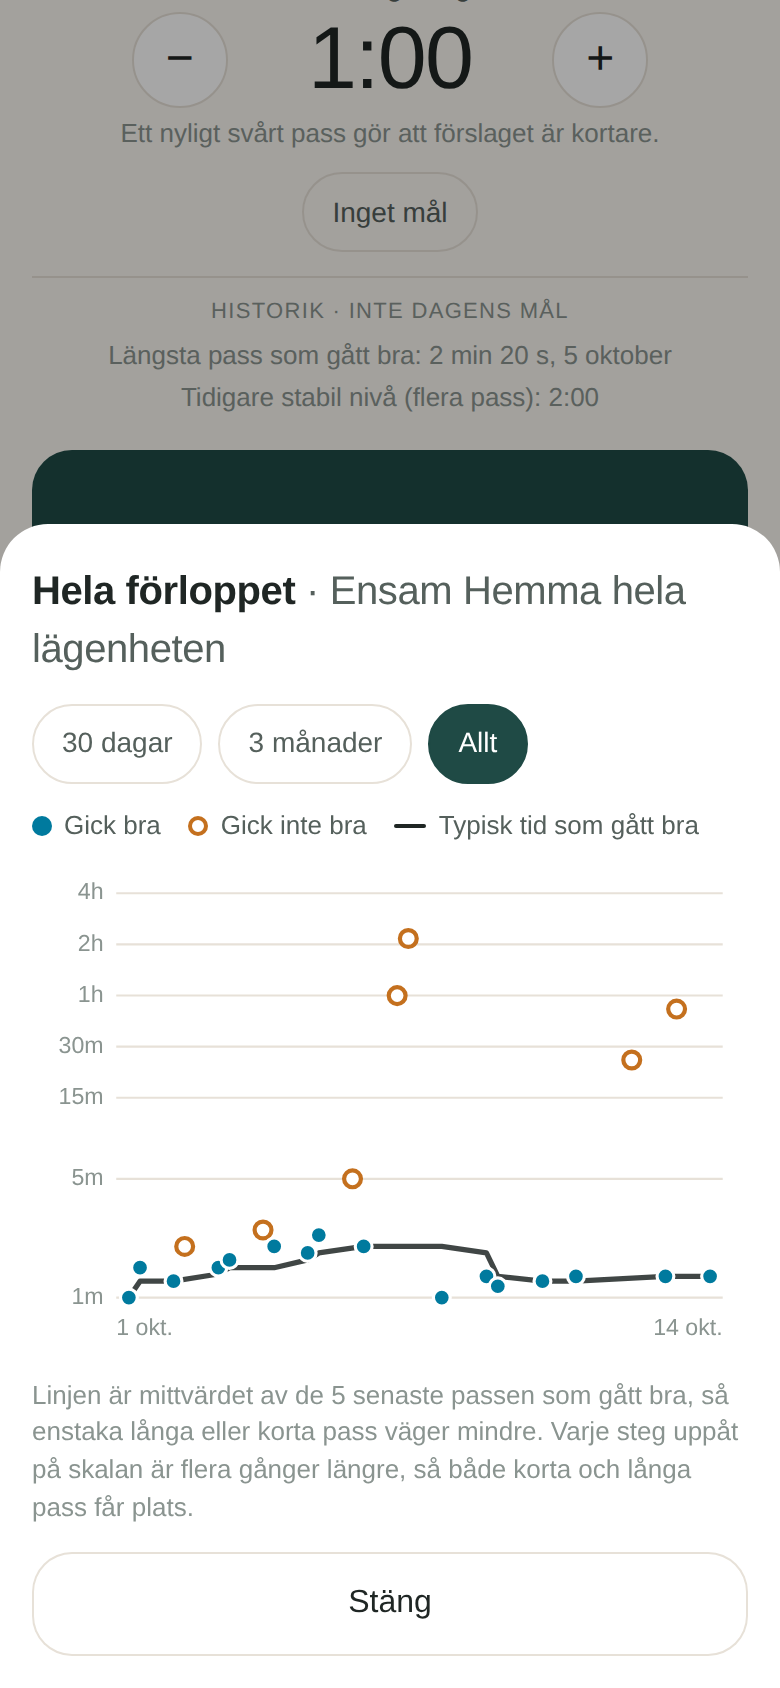
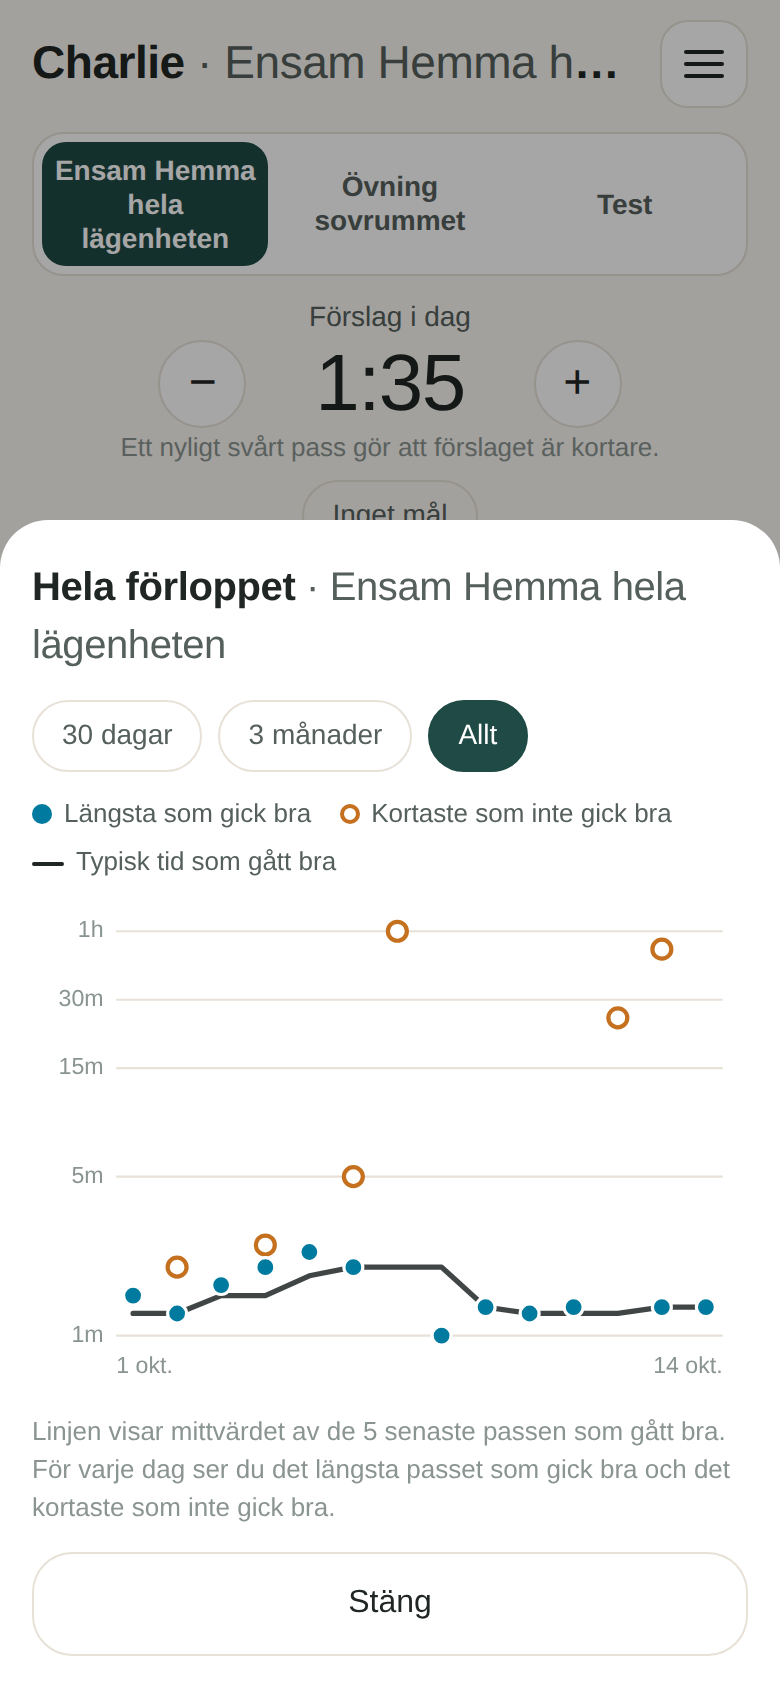
v0.13: calmer whole-course chart (per day), start over (delete all data), simpler chart text
- The whole course: per day only the longest session that went well and the shortest that
  didn't, plus the typical-time line (now one point per day). Legend and note reworded.
- Your data → Start over: delete all data after ticking a confirmation (backup button in the
  same sheet). Clears every app key in localStorage and overwrites the iOS app's storage; a
  running session and its Live Activity end; the app opens on the welcome screen.
- Tests: daily summary, reset flow incl. native storage and Live Activity; every e2e page now
  waits for the app to start (fixes a timing-dependent restore check).

Claude-Session: https://claude.ai/code/session_01EhbfXoTqhXYCiKr5w2cXG6

diff --git a/src/chart.js b/src/chart.js
@@ -161,8 +161,29 @@ export function smoothedGood(sessions, n = SMOOTH_SESSIONS) {
   return goods.map((s, i) => ({ at: s.startedAt, sec: median(goods.slice(Math.max(0, i - n + 1), i + 1).map((g) => g.durationSec)) }));
 }
 
+// One entry per calendar day: the longest session that went well and the shortest one that
+// didn't – the two that say most about the day. ("Don't count" sessions are left out.) Pure.
+export function dailySummary(sessions) {
+  const days = new Map();
+  for (const s of sessions) {
+    if (!Number.isFinite(s.startedAt) || !Number.isFinite(s.durationSec)) continue;
+    const d = new Date(s.startedAt);
+    const key = `${d.getFullYear()}-${d.getMonth()}-${d.getDate()}`;
+    const day = days.get(key) ?? { at: new Date(d.getFullYear(), d.getMonth(), d.getDate(), 12).getTime(), good: null, bad: null };
+    if (s.result === RESULTS.GOOD && !s.uncertain) {
+      if (!day.good || s.durationSec > day.good.durationSec) day.good = s;
+    } else if (s.result === RESULTS.BAD) {
+      if (!day.bad || s.durationSec < day.bad.durationSec) day.bad = s;
+    }
+    days.set(key, day);
+  }
+  return [...days.values()].filter((d) => d.good || d.bad).sort((a, b) => a.at - b.at);
+}
+
 /**
  * Overview of the course in one place. Log scale, so 10 s and 2 h are both readable.
+ * Per day: the longest session that went well (dot) and the shortest that didn't (ring),
+ * and a line for the typical time that went well (median of the latest 5, at the end of each day).
  * @param sessions sessions of one dog in one place
  * @param opts.from  only sessions from this time (ms); null = from the start
  * @returns {string} SVG ('' if none)
@@ -171,18 +192,30 @@ export function renderOverview(allSessions, { from = null } = {}) {
   const sessions = allSessions
     .filter((s) => Number.isFinite(s.startedAt) && (from == null || s.startedAt >= from))
     .sort((a, b) => a.startedAt - b.startedAt);
-  if (!sessions.length) return '';
+  const days = dailySummary(sessions);
+  if (!days.length) return '';
+
+  // The line: the typical good time as it stood at the end of each day.
+  const smooth = smoothedGood(sessions);
+  const line = days
+    .map((d) => {
+      const end = d.at + 12 * 3600 * 1000;
+      const last = smooth.filter((p) => p.at < end).pop();
+      return last ? { at: d.at, sec: last.sec } : null;
+    })
+    .filter(Boolean);
 
   const plotW = OW - OPAD.left - OPAD.right;
   const plotH = OH - OPAD.top - OPAD.bottom;
-  const secs = sessions.map((s) => Math.max(1, s.durationSec));
-  const lo = [...LOG_TICKS].reverse().find((v) => v <= Math.min(...secs)) ?? 1;
-  const hi = LOG_TICKS.find((v) => v >= Math.max(...secs)) ?? LOG_TICKS[LOG_TICKS.length - 1];
+  const shown = [...days.flatMap((d) => [d.good, d.bad].filter(Boolean).map((s) => s.durationSec)), ...line.map((p) => p.sec)]
+    .map((v) => Math.max(1, v));
+  const lo = [...LOG_TICKS].reverse().find((v) => v <= Math.min(...shown)) ?? 1;
+  const hi = LOG_TICKS.find((v) => v >= Math.max(...shown)) ?? LOG_TICKS[LOG_TICKS.length - 1];
   const top = hi > lo ? hi : lo * 10;
   const ly = (v) => OPAD.top + plotH - ((Math.log(Math.max(1, v)) - Math.log(lo)) / (Math.log(top) - Math.log(lo))) * plotH;
-  const t0 = from ?? sessions[0].startedAt;
-  const t1 = Math.max(sessions[sessions.length - 1].startedAt, t0 + 1);
-  const x = (ms) => OPAD.left + 6 + ((ms - t0) / (t1 - t0)) * (plotW - 12);
+  const t0 = days[0].at;
+  const t1 = Math.max(days[days.length - 1].at, t0 + 1);
+  const x = (ms) => OPAD.left + 8 + ((ms - t0) / (t1 - t0)) * (plotW - 16);
 
   const ticks = LOG_TICKS.filter((v) => v >= lo && v <= top);
   const grid = ticks
@@ -191,17 +224,15 @@ export function renderOverview(allSessions, { from = null } = {}) {
     <text class="axis" x="${OPAD.left - 6}" y="${ly(v)}" text-anchor="end" dominant-baseline="middle">${tickLabel(v)}</text>`)
     .join('');
 
-  const line = smoothedGood(sessions);
   const path = line.length > 1
     ? `<path class="trend" d="${line.map((p, i) => `${i ? 'L' : 'M'}${x(p.at).toFixed(1)},${ly(p.sec).toFixed(1)}`).join(' ')}"/>`
     : '';
 
-  const dots = sessions
-    .map((s) => {
-      const label = `${dateFmt(s.startedAt)} · ${formatDuration(s.durationSec)} · ${resultText(s)}`;
-      return `<circle class="dot ${s.result}" cx="${x(s.startedAt).toFixed(1)}" cy="${ly(s.durationSec).toFixed(1)}" r="4" role="img" aria-label="${label}"/>`;
-    })
-    .join('');
+  const dot = (s) => {
+    const label = `${dateFmt(s.startedAt)} · ${formatDuration(s.durationSec)} · ${resultText(s)}`;
+    return `<circle class="dot ${s.result}" cx="${x(new Date(s.startedAt).setHours(12, 0, 0, 0)).toFixed(1)}" cy="${ly(s.durationSec).toFixed(1)}" r="4.5" role="img" aria-label="${label}"/>`;
+  };
+  const dots = days.map((d) => [d.bad, d.good].filter(Boolean).map(dot).join('')).join('');
 
   return `
 <svg class="chart overview-chart" viewBox="0 0 ${OW} ${OH}" role="group" aria-label="${t('overviewAria')}">
@@ -209,7 +240,7 @@ export function renderOverview(allSessions, { from = null } = {}) {
   ${path}
   ${dots}
   <text class="axis" x="${OPAD.left}" y="${OH - 8}" text-anchor="start">${dateFmt(t0)}</text>
-  <text class="axis" x="${OW - OPAD.right}" y="${OH - 8}" text-anchor="end">${dateFmt(t1)}</text>
+  ${days.length > 1 ? `<text class="axis" x="${OW - OPAD.right}" y="${OH - 8}" text-anchor="end">${dateFmt(t1)}</text>` : ''}
 </svg>`;
 }
 

diff --git a/src/i18n.js b/src/i18n.js
@@ -110,7 +110,9 @@ const en = {
   overviewAll: 'All',
   overviewEmpty: 'No sessions in this period.',
   overviewLegendLine: 'Typical time that went well',
-  overviewNote: 'The line is the middle value of the latest 5 sessions that went well, so single long or short sessions count less. Each step up the scale is several times longer, so both short and long sessions fit.',
+  overviewLegendGood: 'Longest that went well',
+  overviewLegendBad: "Shortest that didn't",
+  overviewNote: "The line shows the middle value of the latest 5 sessions that went well. For each day you see the longest session that went well and the shortest one that didn't.",
   close: 'Close',
   empty: 'Your {place} sessions will appear here after your first training.',
   historyTitle: 'Previous sessions',
@@ -180,6 +182,16 @@ const en = {
   restoreItemDog: 'dog “{from}” instead of “{current}”',
   restoreItemLang: '{from} instead of {current}',
 
+
+  // Start over
+  resetTitle: 'Start over',
+  resetHint: 'For example with a new dog. Deletes everything in the app on this phone.',
+  resetOpen: 'Delete all data…',
+  resetConfirmTitle: 'Delete all data?',
+  resetConfirmText: "Everything in the app is deleted from this phone: all sessions and comments, the dog's name, the place names and the ticks under Start here. It can't be undone.",
+  resetBackupHint: 'Save a backup first if you may want the history back.',
+  resetUnderstood: 'I understand that everything is deleted',
+  resetConfirm: 'Delete everything',
 
   // Import review (before anything changes)
   importTitle: 'Import backup',
@@ -364,7 +376,9 @@ const sv = {
   overviewAll: 'Allt',
   overviewEmpty: 'Inga pass under perioden.',
   overviewLegendLine: 'Typisk tid som gått bra',
-  overviewNote: 'Linjen är mittvärdet av de 5 senaste passen som gått bra, så enstaka långa eller korta pass väger mindre. Varje steg uppåt på skalan är flera gånger längre, så både korta och långa pass får plats.',
+  overviewLegendGood: 'Längsta som gick bra',
+  overviewLegendBad: 'Kortaste som inte gick bra',
+  overviewNote: 'Linjen visar mittvärdet av de 5 senaste passen som gått bra. För varje dag ser du det längsta passet som gick bra och det kortaste som inte gick bra.',
   close: 'Stäng',
   empty: 'Dina pass i {place} visas här efter första träningen.',
   historyTitle: 'Tidigare pass',
@@ -429,6 +443,15 @@ const sv = {
   restoreItemPlace: '”{from}” i stället för ”{current}”',
   restoreItemDog: 'hunden ”{from}” i stället för ”{current}”',
   restoreItemLang: '{from} i stället för {current}',
+
+  resetTitle: 'Börja om',
+  resetHint: 'Till exempel med en ny hund. Raderar allt i appen på den här telefonen.',
+  resetOpen: 'Radera all data…',
+  resetConfirmTitle: 'Radera all data?',
+  resetConfirmText: 'Allt i appen raderas från den här telefonen: alla pass och kommentarer, hundens namn, spårnamnen och bockarna under Börja här. Det går inte att ångra.',
+  resetBackupHint: 'Spara en säkerhetskopia först om du kan vilja ha historiken kvar.',
+  resetUnderstood: 'Jag förstår att allt raderas',
+  resetConfirm: 'Radera allt',
 
   importTitle: 'Importera säkerhetskopia',
   importNewOne: '1 nytt pass läggs till',

diff --git a/index.html b/index.html
@@ -259,6 +259,12 @@
         </div>
         <p id="data-status" class="data-status" role="status"></p>
       </div>
+      <!-- Start over: everything on this phone is deleted, after a clear confirmation. -->
+      <div class="card reset-card">
+        <h3 data-i18n="resetTitle">Start over</h3>
+        <p class="hint" data-i18n="resetHint">For example with a new dog. Deletes everything in the app on this phone.</p>
+        <button id="reset-btn" class="btn btn-quiet btn-danger" type="button" data-i18n="resetOpen">Delete all data…</button>
+      </div>
     </section>
 
     <section id="page-help" class="page" aria-labelledby="help-title" hidden>
@@ -324,8 +330,8 @@
         <button type="button" class="chip" data-days="all" data-i18n="overviewAll">All</button>
       </div>
       <div class="legend overview-legend" aria-hidden="true">
-        <span><i class="legend-dot good"></i><span data-i18n="good">Went well</span></span>
-        <span><i class="legend-dot bad"></i><span data-i18n="bad">Didn't go well</span></span>
+        <span><i class="legend-dot good"></i><span data-i18n="overviewLegendGood">Longest that went well</span></span>
+        <span><i class="legend-dot bad"></i><span data-i18n="overviewLegendBad">Shortest that didn't</span></span>
         <span><i class="legend-line"></i><span data-i18n="overviewLegendLine">Typical time that went well</span></span>
       </div>
       <div id="overview-chart"></div>
@@ -333,6 +339,24 @@
       <p class="hint" data-i18n="overviewNote"></p>
       <button id="overview-close" type="button" class="btn btn-quiet" data-i18n="close">Close</button>
     </div>
+  </dialog>
+
+  <!-- Delete all data: only after ticking that you understand. -->
+  <dialog id="reset-dialog" class="sheet" aria-labelledby="reset-title">
+    <form id="reset-form" method="dialog">
+      <h2 id="reset-title" data-i18n="resetConfirmTitle">Delete all data?</h2>
+      <p data-i18n="resetConfirmText">Everything in the app is deleted from this phone: all sessions and comments, the dog's name, the place names and the ticks under Start here. It can't be undone.</p>
+      <p class="hint" id="reset-backup-hint" data-i18n="resetBackupHint">Save a backup first if you may want the history back.</p>
+      <button id="reset-backup" type="button" class="btn btn-quiet" data-i18n="dataBackup">Save backup</button>
+      <label class="check">
+        <input id="reset-understood" type="checkbox">
+        <span data-i18n="resetUnderstood">I understand that everything is deleted</span>
+      </label>
+      <div class="sheet-actions">
+        <button id="reset-cancel" type="button" class="btn btn-quiet" data-i18n="cancel">Cancel</button>
+        <button id="reset-confirm" type="submit" class="btn btn-danger-strong" data-i18n="resetConfirm" disabled>Delete everything</button>
+      </div>
+    </form>
   </dialog>
 
   <!-- Review BEFORE an import changes anything. -->

diff --git a/src/app.js b/src/app.js
@@ -19,6 +19,7 @@ import {
   validateDogName,
   setPendingComment,
   completeOnboarding,
+  createInitialState,
   setPrepDone,
   PREP_STEPS,
   MAX_CONTEXT_NAME,
@@ -1053,6 +1054,45 @@ $('csv-btn').addEventListener('click', async () => {
   if (await shareOrDownload(buildCsv(state), backupFileName('csv'), 'text/csv')) {
     status(t('dataCsvDone'));
   }
+});
+
+// ---------- start over: delete all data (after a clear confirmation) ----------
+
+const resetDialog = $('reset-dialog');
+
+$('reset-btn').addEventListener('click', () => {
+  $('reset-understood').checked = false;
+  $('reset-confirm').disabled = true;
+  resetDialog.showModal();
+});
+$('reset-understood').addEventListener('change', () => ($('reset-confirm').disabled = !$('reset-understood').checked));
+$('reset-cancel').addEventListener('click', () => resetDialog.close());
+$('reset-backup').addEventListener('click', () => $('backup-btn').click());
+
+$('reset-form').addEventListener('submit', (e) => {
+  e.preventDefault();
+  if (!$('reset-understood').checked) return;
+  // Older copies kept by earlier versions (before a restore, unreadable data, v0.1) go too.
+  try {
+    for (const k of Object.keys(localStorage)) if (k.startsWith('alone-training:')) localStorage.removeItem(k);
+  } catch {}
+  // Everything that only lives on this screen is cleared as well.
+  for (const k of Object.keys(draftTargets)) delete draftTargets[k];
+  for (const k of Object.keys(showAllHistory)) delete showAllHistory[k];
+  savedFor = null;
+  namesOffer = [];
+  historyCtx = null;
+  pushedFromHome = false;
+  welcomeLang = getLang(); // the welcome starts in the language used so far
+  $('welcome-dog').value = '';
+  $('welcome-error').textContent = '';
+  status('');
+  resetDialog.close();
+  // A fresh start: the welcome screen, as on a new phone. (Saved over the old data – also in the
+  // iOS app's own storage.) A running session ends, and so does its Live Activity.
+  view = 'home';
+  history.replaceState(null, '', location.pathname + location.search);
+  update(createInitialState());
 });
 
 // ---------- import a backup: always a review first, nothing changes before "Import" ----------

diff --git a/tests/unit/chart.test.js b/tests/unit/chart.test.js
@@ -81,3 +81,26 @@ test('the whole course: one dot per session, period filter, nothing when empty',
   assert.equal(renderOverview(s, { from: Date.UTC(2027, 0, 1) }), '');
   assert.equal(renderOverview([]), '');
 });
+
+// ---------- v0.13: the whole course, one day at a time ----------
+import { dailySummary } from '../../src/chart.js';
+
+test('per day: the longest session that went well and the shortest that did not', () => {
+  const at = (d, h) => new Date(2026, 9, d, h).getTime();
+  const s = (d, h, sec, result, extra = {}) => ({ id: `${d}-${h}`, startedAt: at(d, h), durationSec: sec, result, ...extra });
+  const days = dailySummary([
+    s(1, 8, 30, 'good'), s(1, 9, 90, 'good'), s(1, 10, 7200, 'bad'), s(1, 11, 40, 'bad'),
+    s(2, 9, 3000, 'good', { uncertain: true }), s(2, 10, 20, 'good'),
+    s(3, 9, 600, 'bad'),
+  ]);
+  assert.equal(days.length, 3);
+  assert.equal(days[0].good.durationSec, 90);
+  assert.equal(days[0].bad.durationSec, 40); // not the 2 h one
+  assert.equal(days[1].good.durationSec, 20); // "don't count" left out
+  assert.equal(days[1].bad, null);
+  assert.equal(days[2].good, null);
+  // At most two marks per day in the chart.
+  const svg = renderOverview([s(1, 8, 30, 'good'), s(1, 9, 90, 'good'), s(1, 10, 7200, 'bad'), s(1, 11, 40, 'bad'), s(2, 9, 60, 'good')]);
+  assert.equal((svg.match(/class="dot /g) || []).length, 3);
+  assert.ok(!svg.includes('2 h 00 min')); // the 2 h session is not drawn – the 40 s one is
+});

diff --git a/styles.css b/styles.css
@@ -647,3 +647,12 @@ h1, .card h2 { overflow-wrap: anywhere; }
 #progress .detail { font-size: 12px; min-height: 0; margin-top: 0; }
 #progress .detail:empty { display: none; }
 #progress .card-head { gap: 4px 8px; }
+
+/* ---------- v0.13: start over ---------- */
+.reset-card { display: grid; gap: 8px; }
+.reset-card h3 { margin: 0; font-size: 16px; }
+.reset-card .hint { margin: 0; }
+.btn-danger { color: var(--bad); box-shadow: inset 0 0 0 1px var(--bad); }
+.btn-danger-strong { background: var(--bad); color: #fff; }
+.btn-danger-strong:disabled { opacity: 0.4; cursor: default; }
+#reset-form p { margin: 0; }

diff --git a/sw.js b/sw.js
@@ -1,6 +1,6 @@
 // Makes the app open without internet.
 // Strategy: try the network first (so updates arrive), fall back to the saved copy.
-const CACHE = 'alone-time-v13';
+const CACHE = 'alone-time-v14';
 const FILES = [
   './', 'index.html', 'styles.css', 'manifest.webmanifest',
   'icons/alone-time-32.png', 'icons/alone-time-180.png', 'icons/alone-time-192.png', 'icons/alone-time-512.png',

diff --git a/README.md b/README.md
@@ -1,4 +1,4 @@
-# Alone Time – dog alone-training tracker (v0.12)
+# Alone Time – dog alone-training tracker (v0.13)
 
 A calm, phone-first app for tracking Charlie's alone training in three places:
 **Home**, **Car** and **Outside shop**.
@@ -26,6 +26,19 @@ or train without a target.
 
 Full rules and preliminary parameters: [docs/SUGGESTION-MODEL.md](docs/SUGGESTION-MODEL.md).
 The app is a training journal – not advice, and it can't tell how long a dog can be alone.
+
+## Calmer whole-course chart; start over (v0.13)
+
+- **The whole course** shows, per day, the longest session that went well (dot) and the shortest
+  that didn't (ring), plus the line for the typical time that went well – instead of every session.
+- **Your data → Start over → Delete all data…**: deletes everything in the app on this phone (also
+  the iOS app's own storage) after ticking "I understand that everything is deleted". The app then
+  opens on the welcome screen, e.g. for a new dog. A backup can be saved from the same sheet first.
+
+<p>
+<img src="docs/screenshots/31-overview-sv.png" width="220" alt="The whole course, one day at a time">
+<img src="docs/screenshots/34-reset-sv.png" width="220" alt="Delete all data, with confirmation">
+</p>
 
 ## Typical level; target in the Dynamic Island (v0.12)
 
